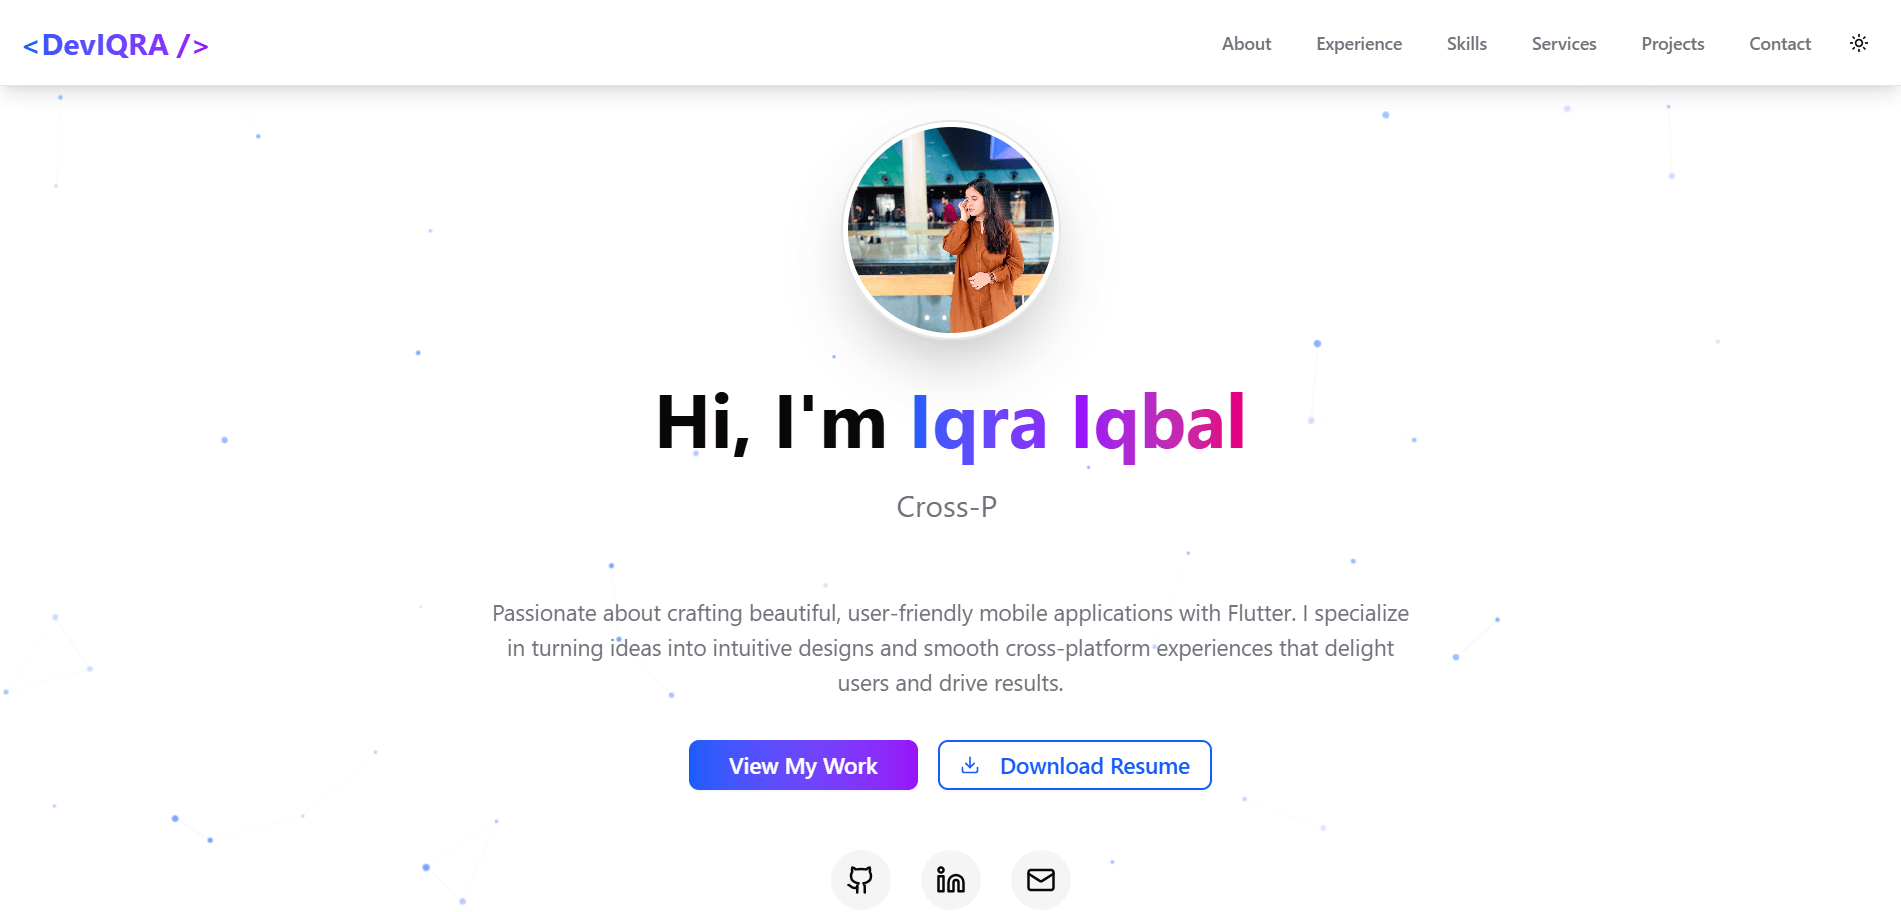
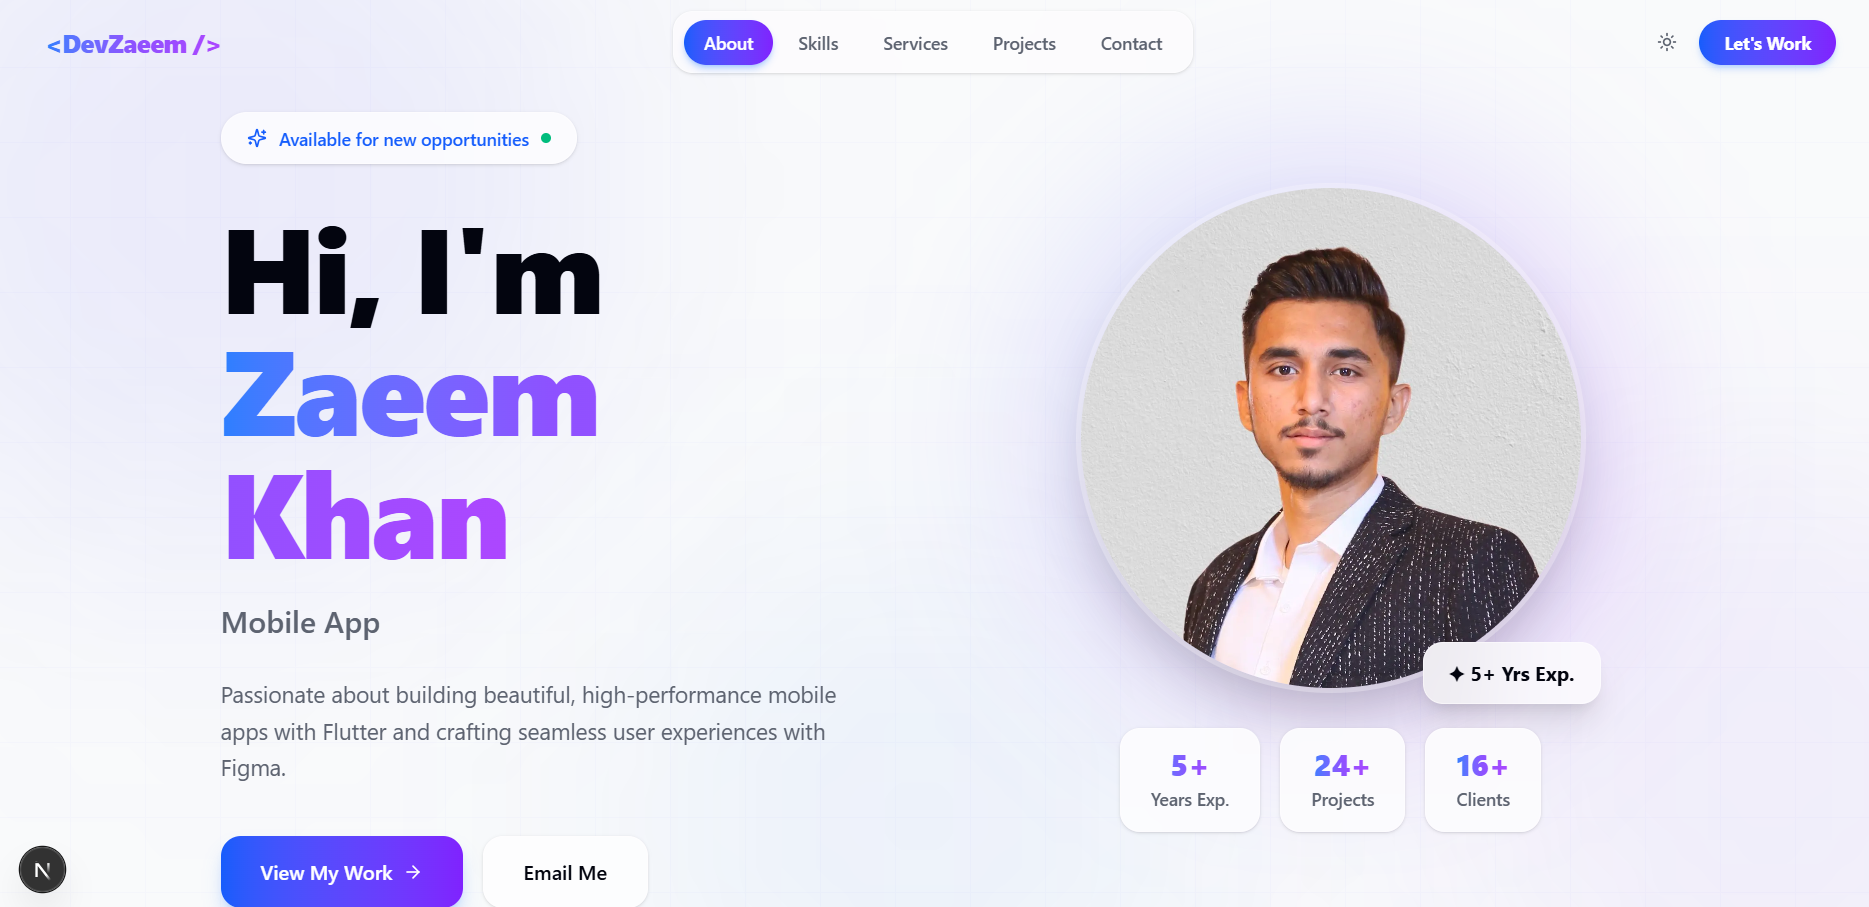
okk

diff --git a/src/components/hero.tsx b/src/components/hero.tsx
@@ -1,13 +1,9 @@
 "use client"
 
-import { Mail, ArrowDown, Sparkles } from "lucide-react"
+import { ArrowDown, Sparkles, ArrowRight } from "lucide-react"
 import { motion } from "framer-motion"
 import { TypeAnimation } from "react-type-animation"
 import Image from "next/image"
-
-const socialLinks = [
-  { icon: Mail, href: "mailto:Kzaeemkhan833@gmail.com", label: "Email" },
-]
 
 const stats = [
   { value: "5+", label: "Years Exp." },
@@ -61,32 +57,19 @@ export function Hero() {
             </motion.p>
 
             {/* CTA buttons */}
-            <motion.div {...fadeUp(0.52)} className="flex flex-col sm:flex-row gap-4 justify-center lg:justify-start mb-10">
+            <motion.div {...fadeUp(0.52)} className="flex flex-col sm:flex-row gap-4 justify-center lg:justify-start">
               <button
                 onClick={() => go("projects")}
                 className="inline-flex items-center justify-center gap-2 px-8 py-4 rounded-2xl bg-gradient-to-r from-blue-600 to-violet-600 text-white font-semibold text-base shadow-lg shadow-blue-500/30 hover:shadow-blue-500/50 hover:scale-[1.02] active:scale-[0.98] transition-all duration-200"
               >
-                View My Work
+                View My Work <ArrowRight className="h-4 w-4" />
               </button>
-
-            </motion.div>
-
-            {/* Social icons */}
-            <motion.div {...fadeUp(0.62)} className="flex justify-center lg:justify-start gap-3">
-              {socialLinks.map(({ icon: Icon, href, label }, i) => (
-                <motion.a
-                  key={i}
-                  href={href}
-                  target="_blank"
-                  rel="noopener noreferrer"
-                  aria-label={label}
-                  whileHover={{ scale: 1.12, y: -3 }}
-                  whileTap={{ scale: 0.93 }}
-                  className="w-12 h-12 rounded-2xl glass flex items-center justify-center text-muted-foreground hover:text-blue-600 hover:border-blue-400/60 transition-colors shadow-sm"
-                >
-                  <Icon className="h-5 w-5" />
-                </motion.a>
-              ))}
+              <a
+                href="mailto:Kzaeemkhan833@gmail.com"
+                className="inline-flex items-center justify-center gap-2 px-8 py-4 rounded-2xl glass text-foreground font-semibold text-base hover:text-blue-600 hover:border-blue-400/50 hover:scale-[1.02] active:scale-[0.98] transition-all duration-200 shadow-sm"
+              >
+                Email Me
+              </a>
             </motion.div>
           </div>
 
